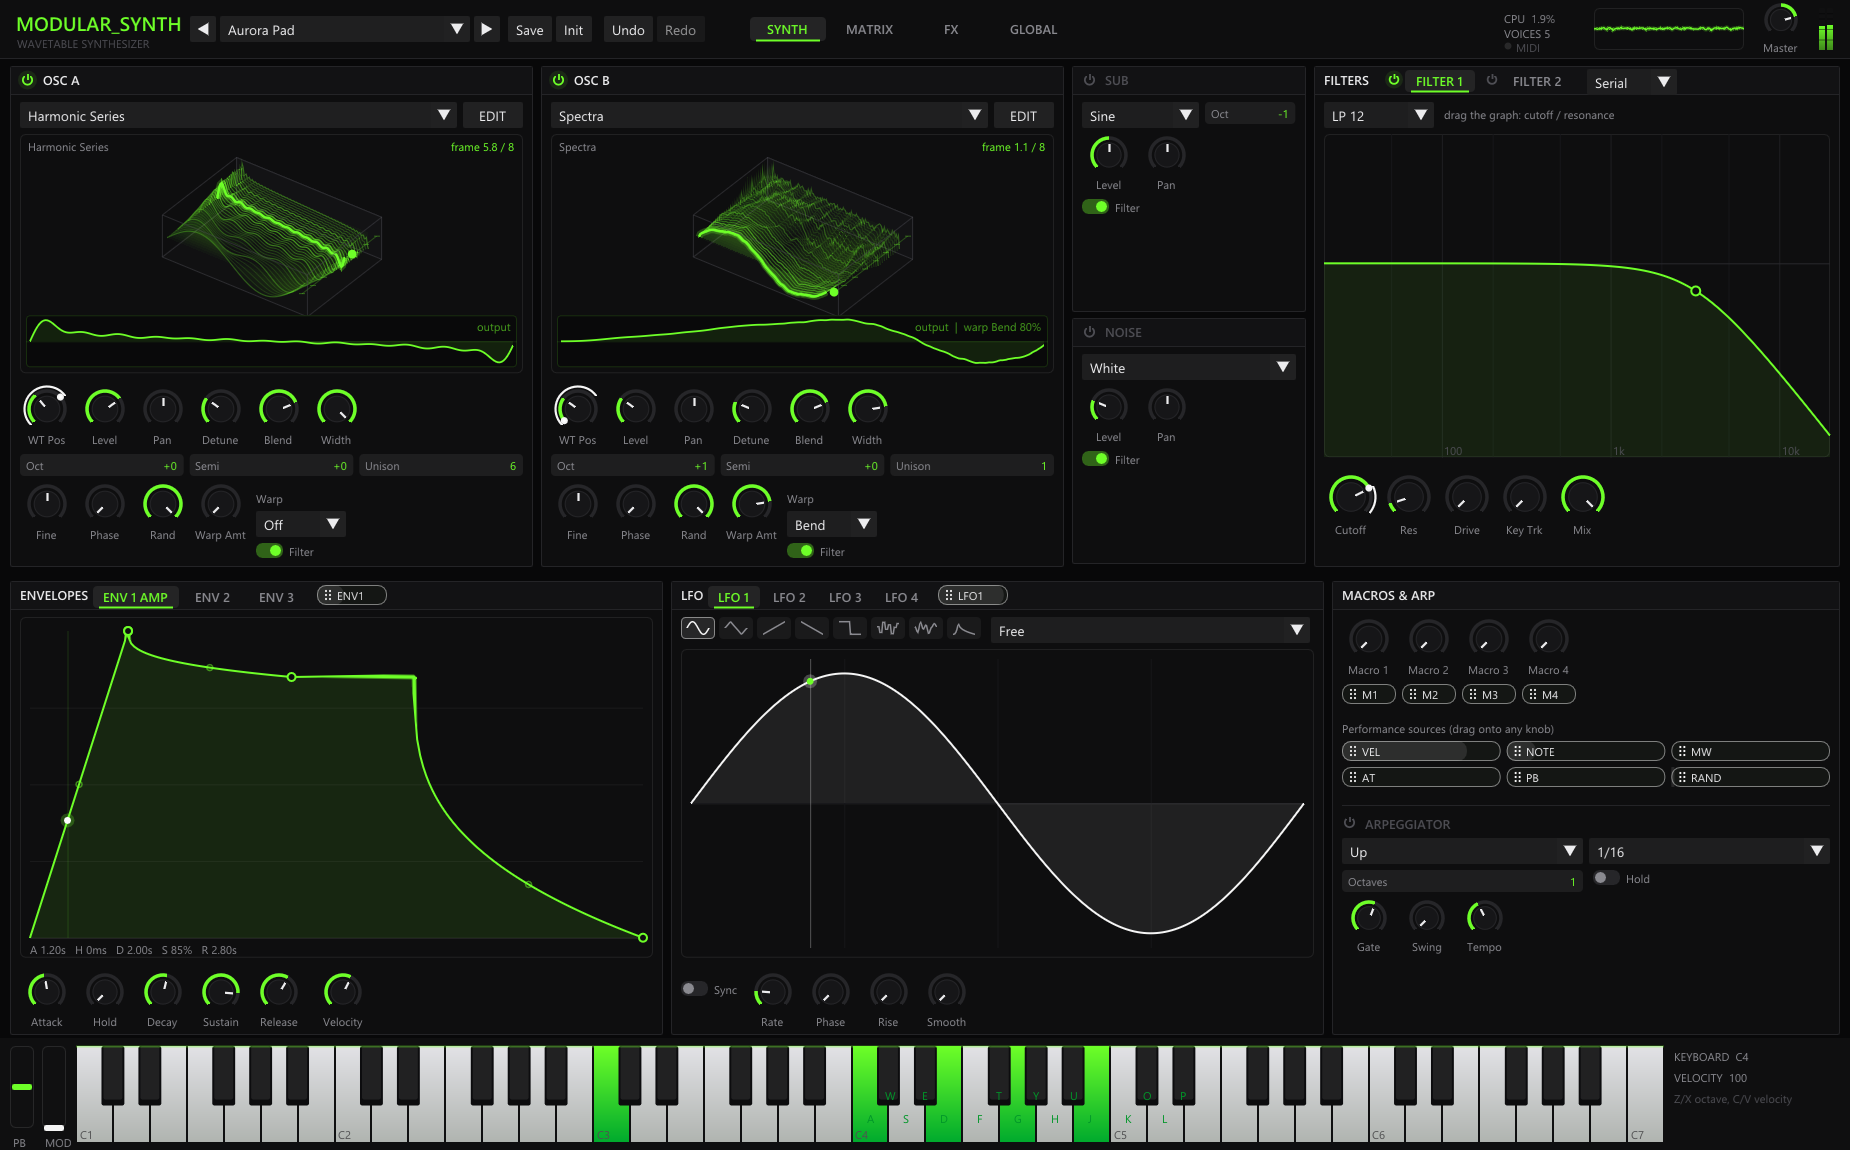
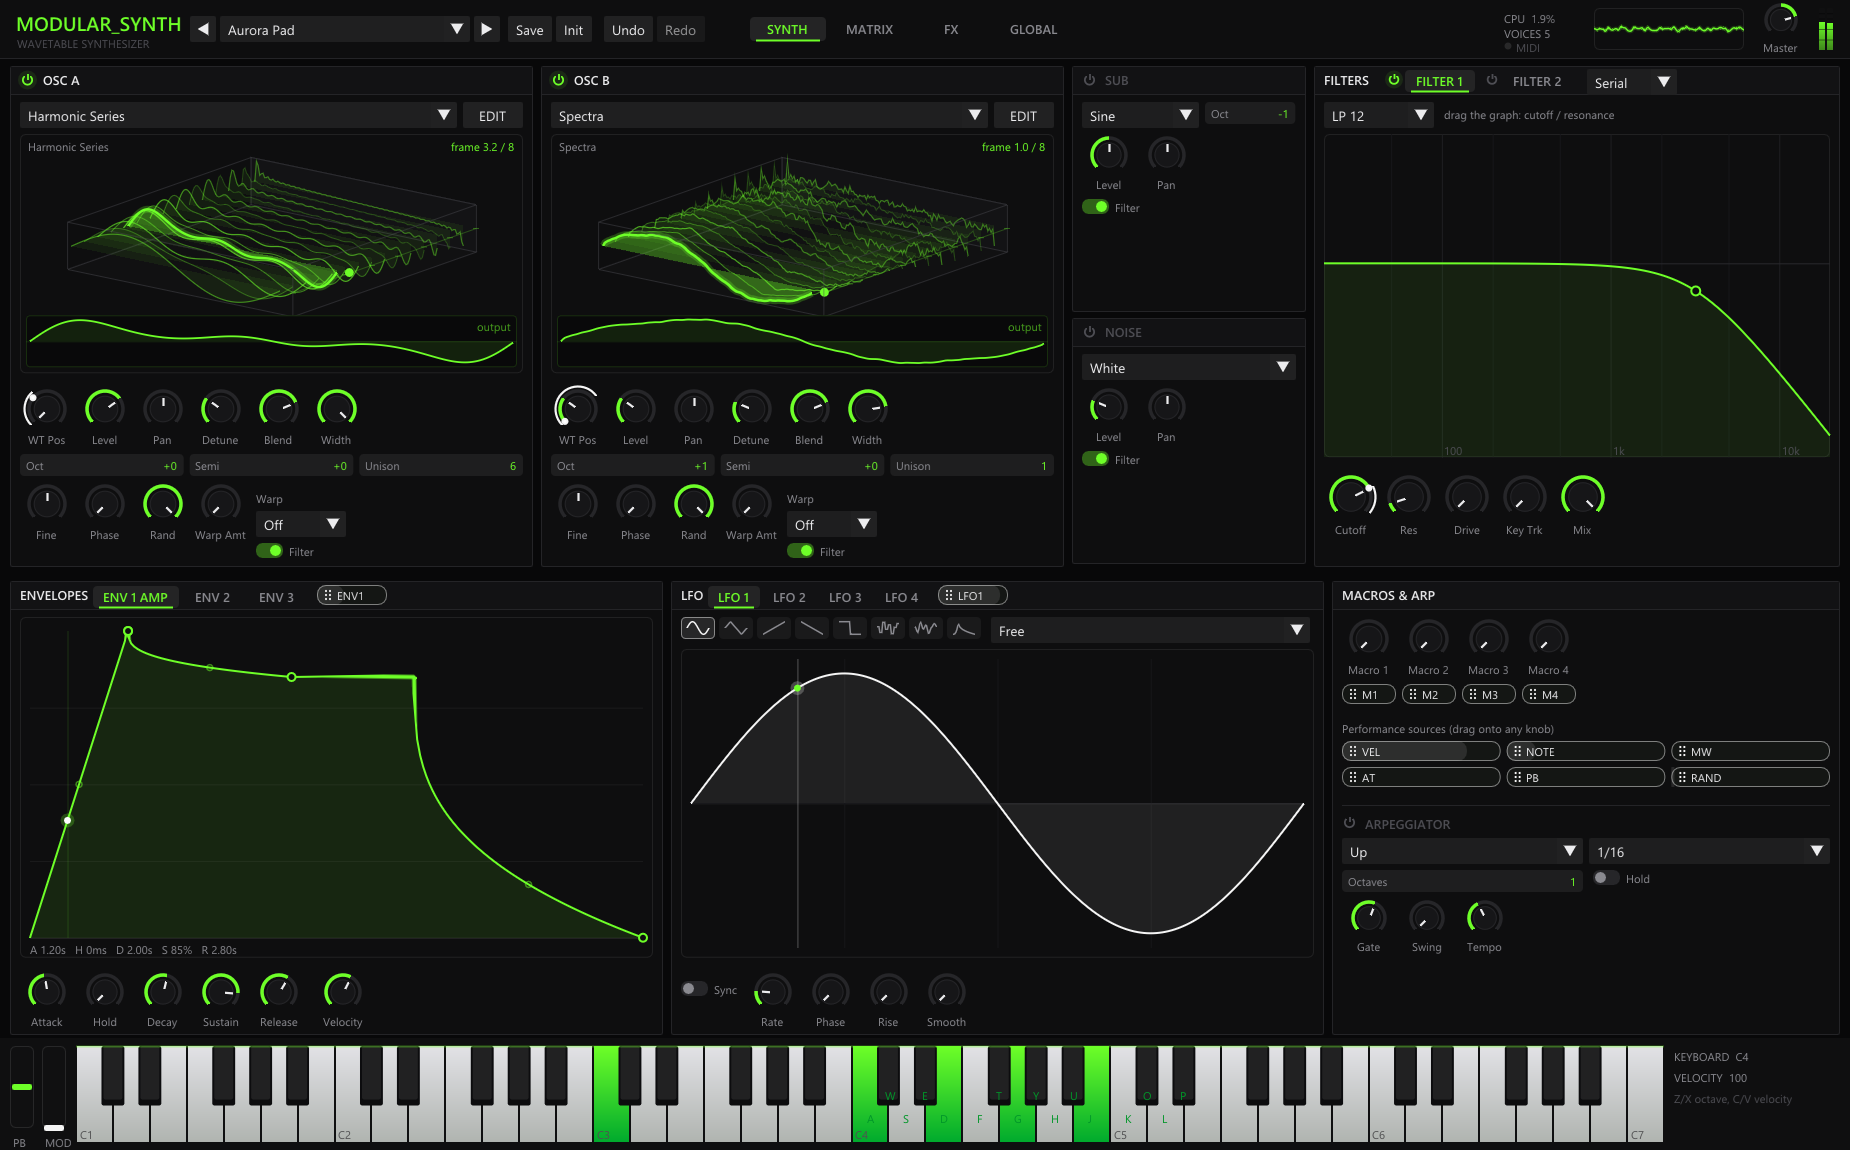
Wavetable view: match Serum 2's proportions
Oblique projection measured from Serum 2's wavetable display (waveform
axis right and slightly down, depth right and up, wide low box), 15
lightly filled slices forming a terrain, playing frame filled.

diff --git a/app/ui/Views.cpp b/app/ui/Views.cpp
@@ -47,9 +47,10 @@ struct WtCache {
 };
 WtCache gCache[3];
 
-// yaw: box turned around its vertical axis (clockwise seen from above, so a
-// corner faces the viewer); pitch: how far we look down onto it
-struct WtViewState { float yaw = 0.63f, pitch = 0.6f; bool flat = false; };
+// Oblique projection with Serum 2's proportions: the waveform axis runs right
+// and slightly down, the depth axis right and up. zx/zy = screen vector of the
+// whole depth, in units of half the waveform width (drag adjusts them).
+struct WtViewState { float zx = 1.76f, zy = 0.62f; bool flat = false; };
 WtViewState gView[3];
 
 void buildCache(WtCache& c, const WavetableSet* wt)
@@ -102,8 +103,8 @@ void WavetableView(UiState& ui, int osc, ImVec2 size, const WavetableSet* overri
     int vi = overrideTable ? 2 : osc;
     WtViewState& vs = gView[vi];
     if (ImGui::IsItemActive() && ImGui::IsMouseDragging(ImGuiMouseButton_Left, 1.0f)) {
-        vs.yaw = std::clamp(vs.yaw + ImGui::GetIO().MouseDelta.x * 0.005f, -1.2f, 1.2f);
-        vs.pitch = std::clamp(vs.pitch + ImGui::GetIO().MouseDelta.y * 0.004f, 0.2f, 1.2f);
+        vs.zx = std::clamp(vs.zx + ImGui::GetIO().MouseDelta.x * 0.01f, 0.4f, 2.6f);
+        vs.zy = std::clamp(vs.zy + ImGui::GetIO().MouseDelta.y * 0.006f, 0.15f, 1.3f);
     }
     if (ImGui::IsItemHovered() && ImGui::IsMouseDoubleClicked(ImGuiMouseButton_Left)) vs.flat = !vs.flat;
     if (ImGui::IsItemHovered() && !ImGui::IsItemActive() && ImGui::GetCurrentContext()->HoveredIdTimer > 0.8f)
@@ -147,17 +148,13 @@ void WavetableView(UiState& ui, int osc, ImVec2 size, const WavetableSet* overri
     // ---- 3D stack ----
     if (!vs.flat) {
         const float top = a.y + 20.0f, H = stackH;
-        const float bx0 = -1.08f, bx1 = 1.2f, by0 = -1.2f, by1 = 1.2f;   // box extents
+        const float bx0 = -1.04f, bx1 = 1.12f, by0 = -1.08f, by1 = 1.08f;   // box extents, hugging the waves
 
-        // 3D: x along the waveform, z into the depth (length D), y = amplitude.
-        // Turn around the vertical axis (yaw), look down by pitch, project
-        // orthographically. Scale and offset are fitted so the box fills the area.
-        const float D = 1.6f, A = 0.27f;
-        const float cy = std::cos(vs.yaw), sy = std::sin(vs.yaw), cp = std::cos(vs.pitch), sp = std::sin(vs.pitch);
+        // x along the waveform, z into the depth, y = amplitude. Scale and offset
+        // are fitted so the box fills the area.
+        const float slope = 0.21f, A = 0.21f;
         auto model = [&](float x, float z, float y) {
-            float zc = (z - 0.5f) * D;
-            float xr = x * cy + zc * sy, zr = -x * sy + zc * cy;
-            return ImVec2(xr, -y * A * cp - zr * sp);
+            return ImVec2(x + z * vs.zx, x * slope - z * vs.zy - y * A);
         };
         float mnx = 1e9f, mny = 1e9f, mxx = -1e9f, mxy = -1e9f;
         for (float x : { bx0, bx1 }) for (float z : { 0.0f, 1.0f }) for (float y : { by0, by1 }) {
@@ -198,7 +195,7 @@ void WavetableView(UiState& ui, int osc, ImVec2 size, const WavetableSet* overri
         // Dense slices (the 8 frames plus 4 interpolated between each pair), back to
         // front. Each gets a very light fill to its zero line, so together they read
         // as one translucent surface; real frames are a little brighter.
-        constexpr int SUB = 5, SLICES = (WT_FRAMES - 1) * SUB + 1;
+        constexpr int SUB = 2, SLICES = (WT_FRAMES - 1) * SUB + 1;
         float slice[PTS];
         for (int k = SLICES - 1; k >= 0; --k) {
             float z = (float)k / (SLICES - 1);
@@ -211,12 +208,12 @@ void WavetableView(UiState& ui, int osc, ImVec2 size, const WavetableSet* overri
                 for (int i = 1; i < PTS; ++i) {
                     ImVec2 z0 = project((float)(i - 1) / (PTS - 1) * 2.0f - 1.0f, z, 0.0f);
                     ImVec2 z1 = project((float)i / (PTS - 1) * 2.0f - 1.0f, z, 0.0f);
-                    dl->AddQuadFilled(pts[i - 1], pts[i], z1, z0, theme::withAlpha(green, 0.025f));
+                    dl->AddQuadFilled(pts[i - 1], pts[i], z1, z0, theme::withAlpha(green, 0.065f));
                 }
             }
             bool isFrame = k % SUB == 0;
             float near = std::max(0.0f, 1.0f - std::fabs(z - pos) * 2.5f);
-            float alpha = (isFrame ? 0.30f : 0.13f) + 0.35f * near;
+            float alpha = (isFrame ? 0.42f : 0.22f) + 0.3f * near;
             dl->AddPolyline(pts, PTS, theme::withAlpha(green, alpha), 0, isFrame ? 1.2f : 1.0f);
         }
 
@@ -234,7 +231,7 @@ void WavetableView(UiState& ui, int osc, ImVec2 size, const WavetableSet* overri
             for (int i = 1; i < PTS; ++i) {
                 ImVec2 z0 = project((float)(i - 1) / (PTS - 1) * 2.0f - 1.0f, pos, 0.0f);
                 ImVec2 z1 = project((float)i / (PTS - 1) * 2.0f - 1.0f, pos, 0.0f);
-                dl->AddQuadFilled(pts[i - 1], pts[i], z1, z0, theme::withAlpha(green, 0.12f));
+                dl->AddQuadFilled(pts[i - 1], pts[i], z1, z0, theme::withAlpha(green, 0.28f));
             }
         }
         dl->AddPolyline(pts, PTS, theme::withAlpha(green, 0.25f), 0, 7.0f);
